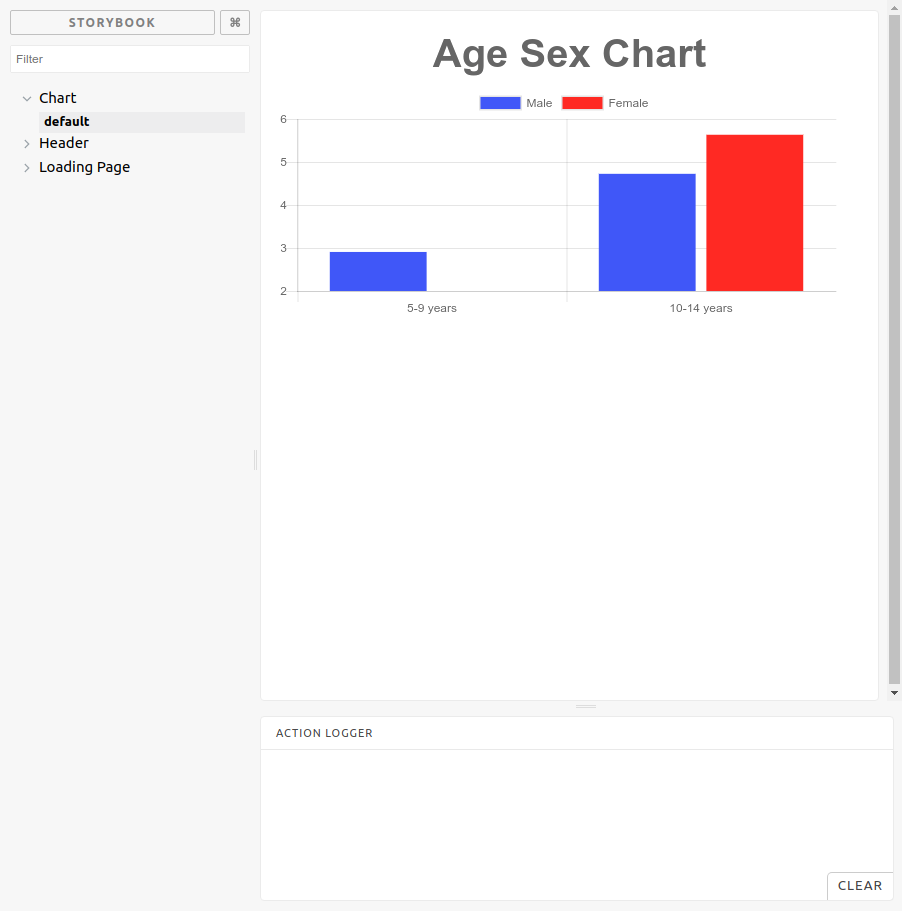
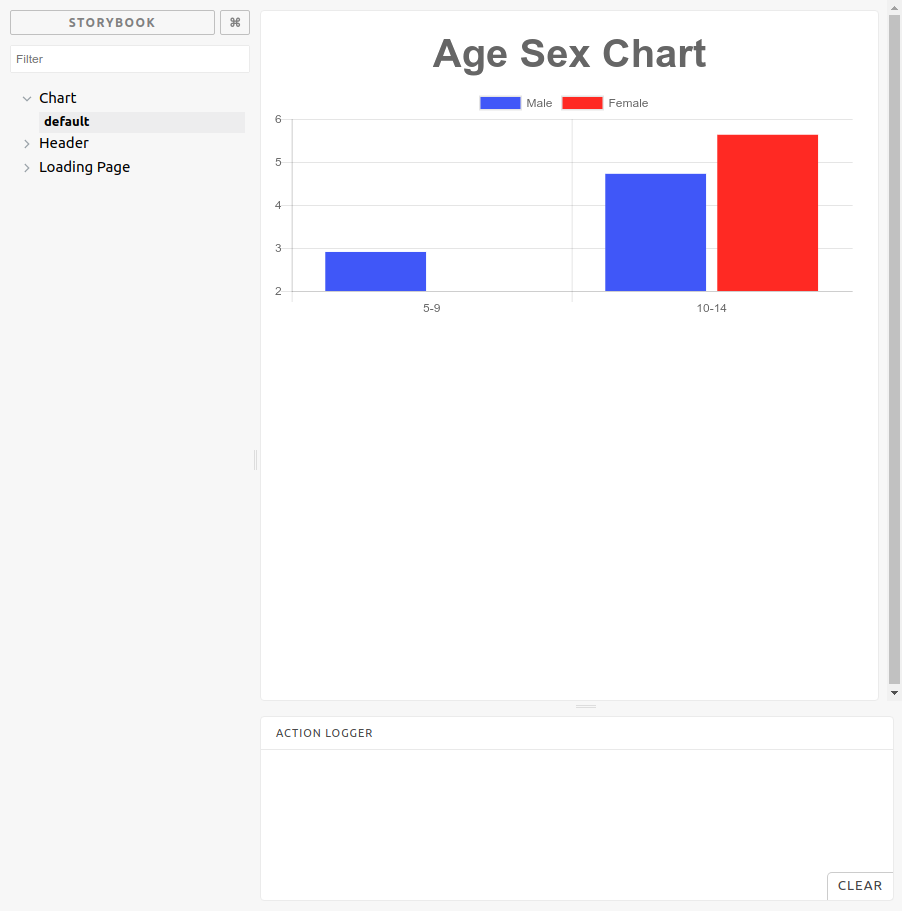
code refactor

diff --git a/src/tests/selectors/data.test.js b/src/tests/selectors/data.test.js
@@ -13,7 +13,7 @@ test('should build query and return query', () => {
 
 test('should get all the labels', () => {
     const result = getLabels(data);
-    expect(result).toEqual(['0-4 years', '5-9 years', '10-14 years']);
+    expect(result).toEqual(['0-4', '5-9', '10-14']);
 });
 
 test('should get all male', () => {
@@ -29,7 +29,7 @@ test('should get all female', () => {
 test('should get data object', () => {
     const result = getData(data);
     expect(result).toEqual({
-        label: ['0-4 years', '5-9 years', '10-14 years'],
+        label: ['0-4', '5-9', '10-14'],
         male: [83156, 84278, 77299],
         female: [78572, 79873, 73504]
     });

diff --git a/src/selectors/data.js b/src/selectors/data.js
@@ -9,7 +9,7 @@ export const buildQuery = (year) => {
 
 export const getLabels = (data) => {
     let groups = data.map((item)=> {
-        return item.age5p_age_in_five_year_groups
+        return item.age5p_age_in_five_year_groups.split(" ")[0]
     })
     return Array.from(new Set(groups))
 }

diff --git a/src/tests/fixtures/data.js b/src/tests/fixtures/data.js
@@ -37,7 +37,7 @@ export const endpointData = {
 }
 
 export const chartData = {
-    label: ['5-9 years', '10-14 years'],
+    label: ['5-9', '10-14'],
     male: [3, 5],
     female: [2, 6]
 }
